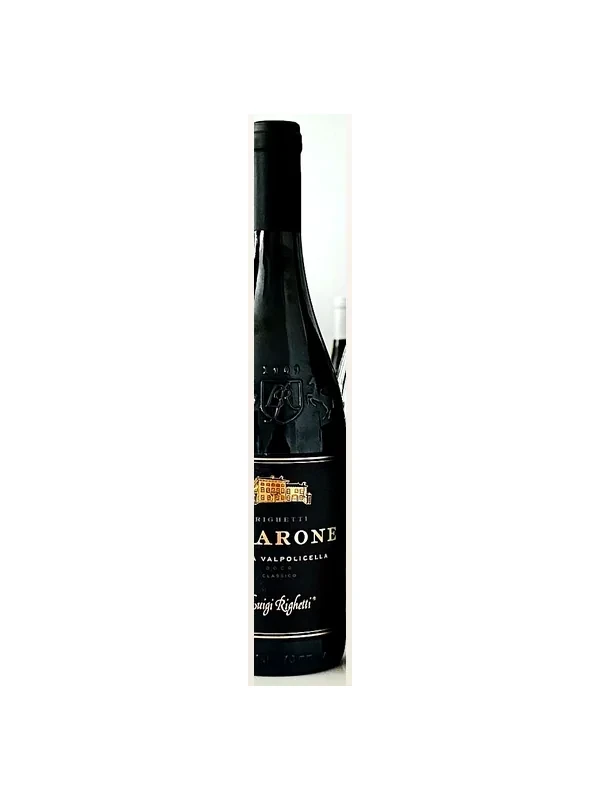
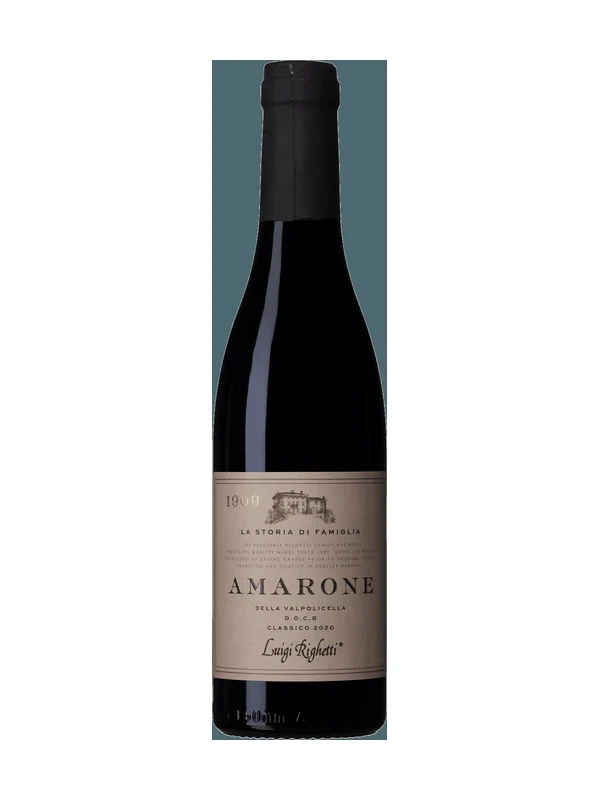
Hela flaskor online för #7/#8/#10/#11 (tidigare avklippta festfoton)
#7 Amarone Righetti & #10 ONE & #11 Basalt Granville (Systembolaget), #8 Alaja (Vivino).
Nu 24 online-bilder, 12 festfoton.

Changed region(s): [[0.33, 0.0625, 0.66, 0.9375]]

diff --git a/BILDKALLOR.md b/BILDKALLOR.md
@@ -15,11 +15,11 @@ Där online-bilden gällde en annan årgång/etikett, saknades, eller inte kunde
 | 4 | Barolo – dedicato a Enzo Bartoli | online | samma producent/etikett, årgång kan skilja |
 | 5 | Coto de Imaz Reserva Rioja | festfoto | festfotot visar rätt etikett tydligt |
 | 6 | Pedroncelli 'Brother's Mark' Cabernet Sauvignon | festfoto | hittades ej online |
-| 7 | Amarone della Valpolicella Classico – Luigi Righetti | festfoto | ingen produktbild online |
-| 8 | Alaja Cosecha Jumilla | festfoto | hittades ej online |
+| 7 | Amarone della Valpolicella Classico – Luigi Righetti | online | Systembolagets produktbild (etiketten kan vara omgjord) |
+| 8 | Alaja Cosecha Jumilla | online | Vivino (Finca La Solana / Luzón) |
 | 9 | Borgogno Barolo Riserva | online | |
-| 10 | ONE Ribera del Duero | festfoto | hittades ej online |
-| 11 | Basalt 'Granville' Pinot Noir | festfoto | hittades ej online |
+| 10 | ONE Ribera del Duero | online | Systembolagets produktbild (Ribera 1 One) |
+| 11 | Basalt 'Granville' Pinot Noir | online | Systembolagets produktbild |
 | 12 | Poderi Colla 'Dardi Le Rose' Barolo Bussia | online | producentens egen bild (podericolla.it) |
 | 13 | Black Knight Cabernet Sauvignon | festfoto | ingen produktbild online |
 | 14 | Enzo Bartoli Langhe Nebbiolo | online | |
@@ -46,6 +46,6 @@ Där online-bilden gällde en annan årgång/etikett, saknades, eller inte kunde
 | 35 | Grand Tokaj 'Terroir Selection' Édes Szamorodni | online | Systembolagets produktbild (Grand Tokaj Édes Szamorodni) |
 | 36 | Djuce White Wine (burk) | online | Djuce Core Fizzy White-burk (djuce.com); exakt variant osäker |
 
-**Sammanfattning:** 20 online-produktbilder, 16 omputsade festfoton.
+**Sammanfattning:** 24 online-produktbilder, 12 omputsade festfoton.
 
 Skripten som användes ligger i `scripts_hamta/`.
